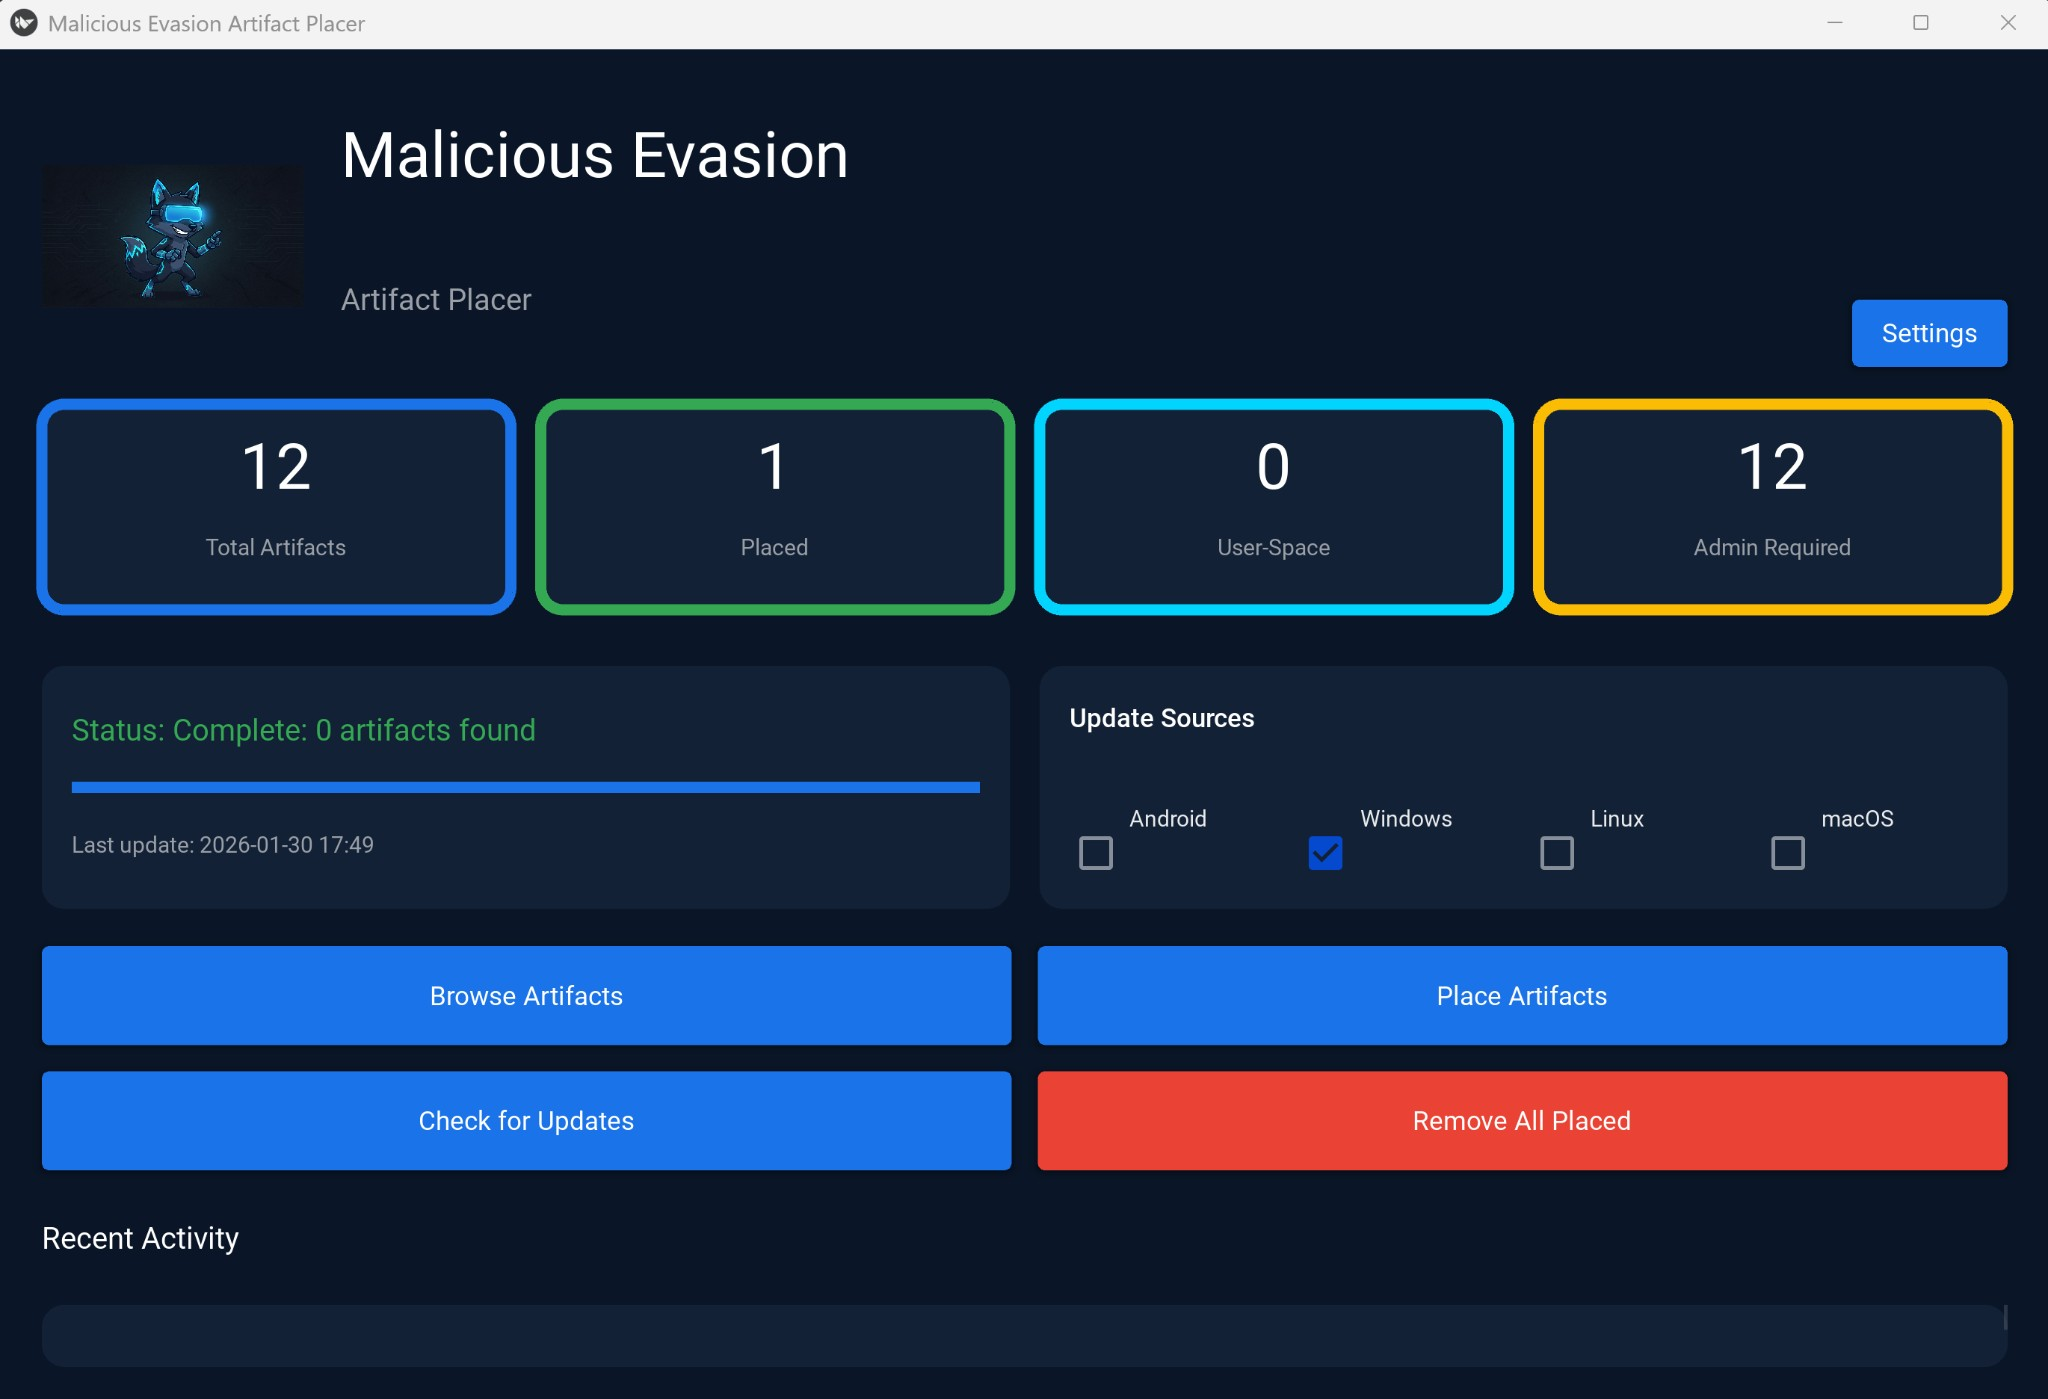
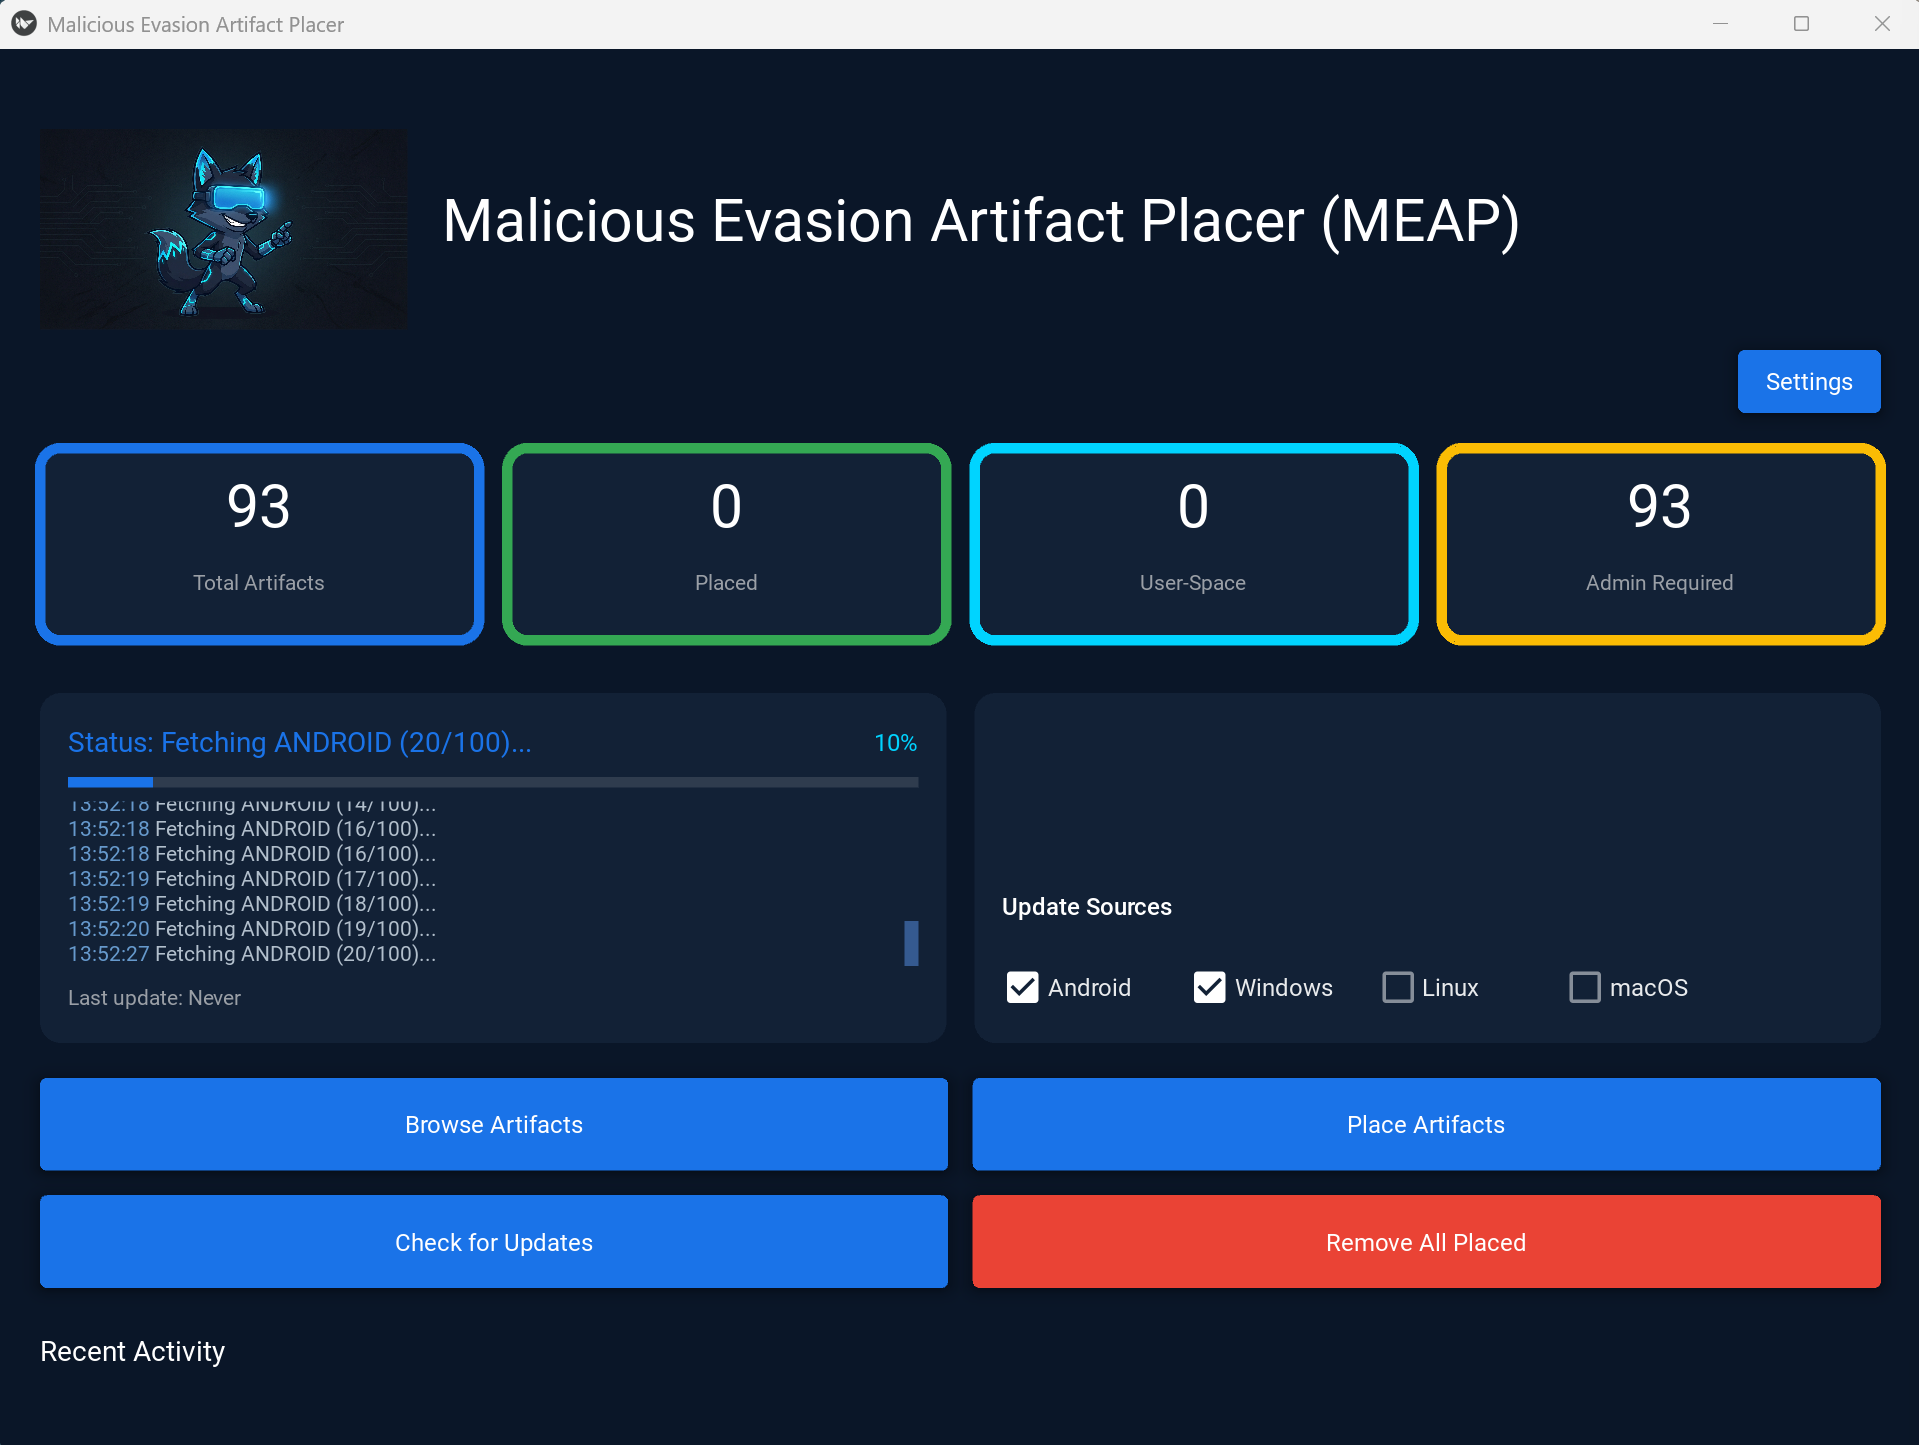
Update README with (MEAP) title and new screenshots
- Add (MEAP) acronym to title

- Add dashboard, browse artifacts, place artifact, and extractor patterns screenshots

- Update screenshot layout with table format

diff --git a/README.md b/README.md
@@ -1,8 +1,18 @@
-# Malicious Evasion Artifact Placer
+# Malicious Evasion Artifact Placer (MEAP)
 
 A tool for extracting anti-analysis and evasion artifacts from malware behavioral reports and placing them on systems to mimic sandboxes that cause malware to terminate.
 
-![Dashboard Screenshot](docs/screenshots/dashboard.png)
+![Dashboard](docs/screenshots/dashboard.png)
+
+## Screenshots
+
+| Browse Artifacts | Place Artifact |
+|:---:|:---:|
+| ![Browse](docs/screenshots/browse_artifacts.png) | ![Place](docs/screenshots/place_artifact.png) |
+
+### Extraction Patterns by OS
+
+![Extractor Patterns](docs/screenshots/extractors_patterns.png)
 
 ## Disclaimer
 
